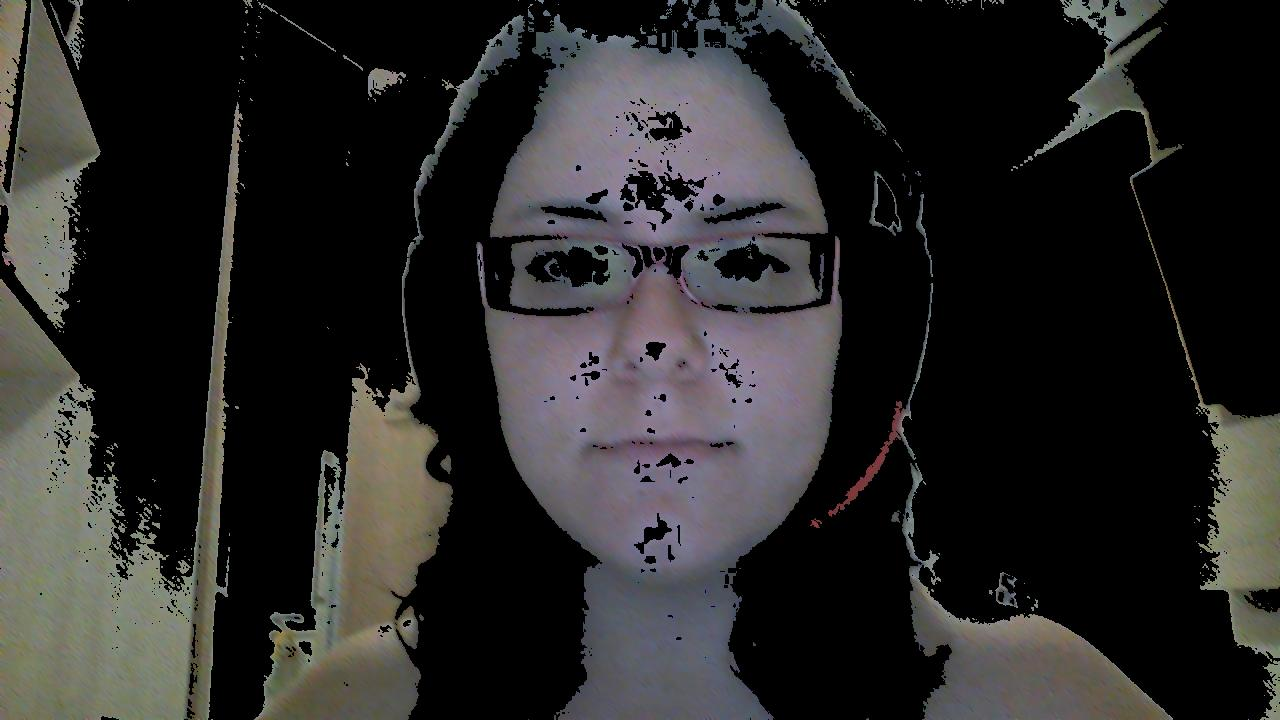
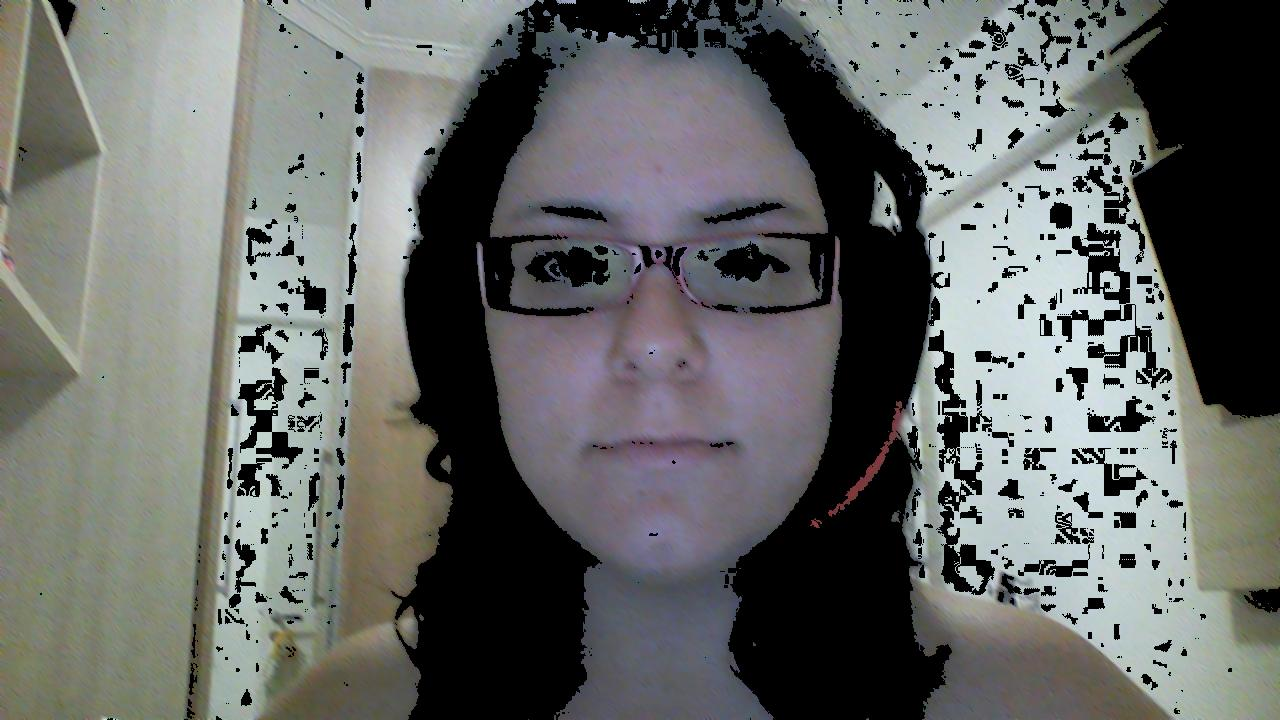
Acertando skin para casos ruins

diff --git a/Filtros/filtros.py b/Filtros/filtros.py
@@ -24,7 +24,7 @@ class Simple3ChannelsFilters:
 		Cr = 128 + (0.439*RGB[0] - 0.368*RGB[1] - 0.071*RGB[2]);
 		YCbCr = (Y, Cb, Cr)
 		#if ( (80 <= YCbCr[0]) and (YCbCr[0] <= 230) and (77 <= YCbCr[1]) and (YCbCr[1]  <= 127) and (133 <= YCbCr[2]) and (YCbCr[2] <=173) ):
-		if ( (80 <= YCbCr[0]) and (YCbCr[0] <= 135) and (77 <= YCbCr[1]) and (YCbCr[1]  <= 140) and (120 <= YCbCr[2]) and (YCbCr[2] <=173) ):
+		if ( (80 <= YCbCr[0]) and (YCbCr[0] <= 230) and (77 <= YCbCr[1]) and (YCbCr[1]  <= 145) and (120 <= YCbCr[2]) and (YCbCr[2] <=173) ):
 		    return RGB
 		else:
 		    return (0,0,0)

diff --git a/Filtros/teste.py b/Filtros/teste.py
@@ -14,7 +14,7 @@ myImg.save()
 #myImg.save()
 
 
-RGB=[120,124,107]
+RGB=[123,121,158]
 Y = 16 + (0.257*RGB[0] + 0.504*RGB[1] + 0.098*RGB[2]);
 Cb = 128 + (-0.148*RGB[0] - 0.291*RGB[1] + 0.439*RGB[2]);
 Cr = 128 + (0.439*RGB[0] - 0.368*RGB[1] - 0.071*RGB[2]);
